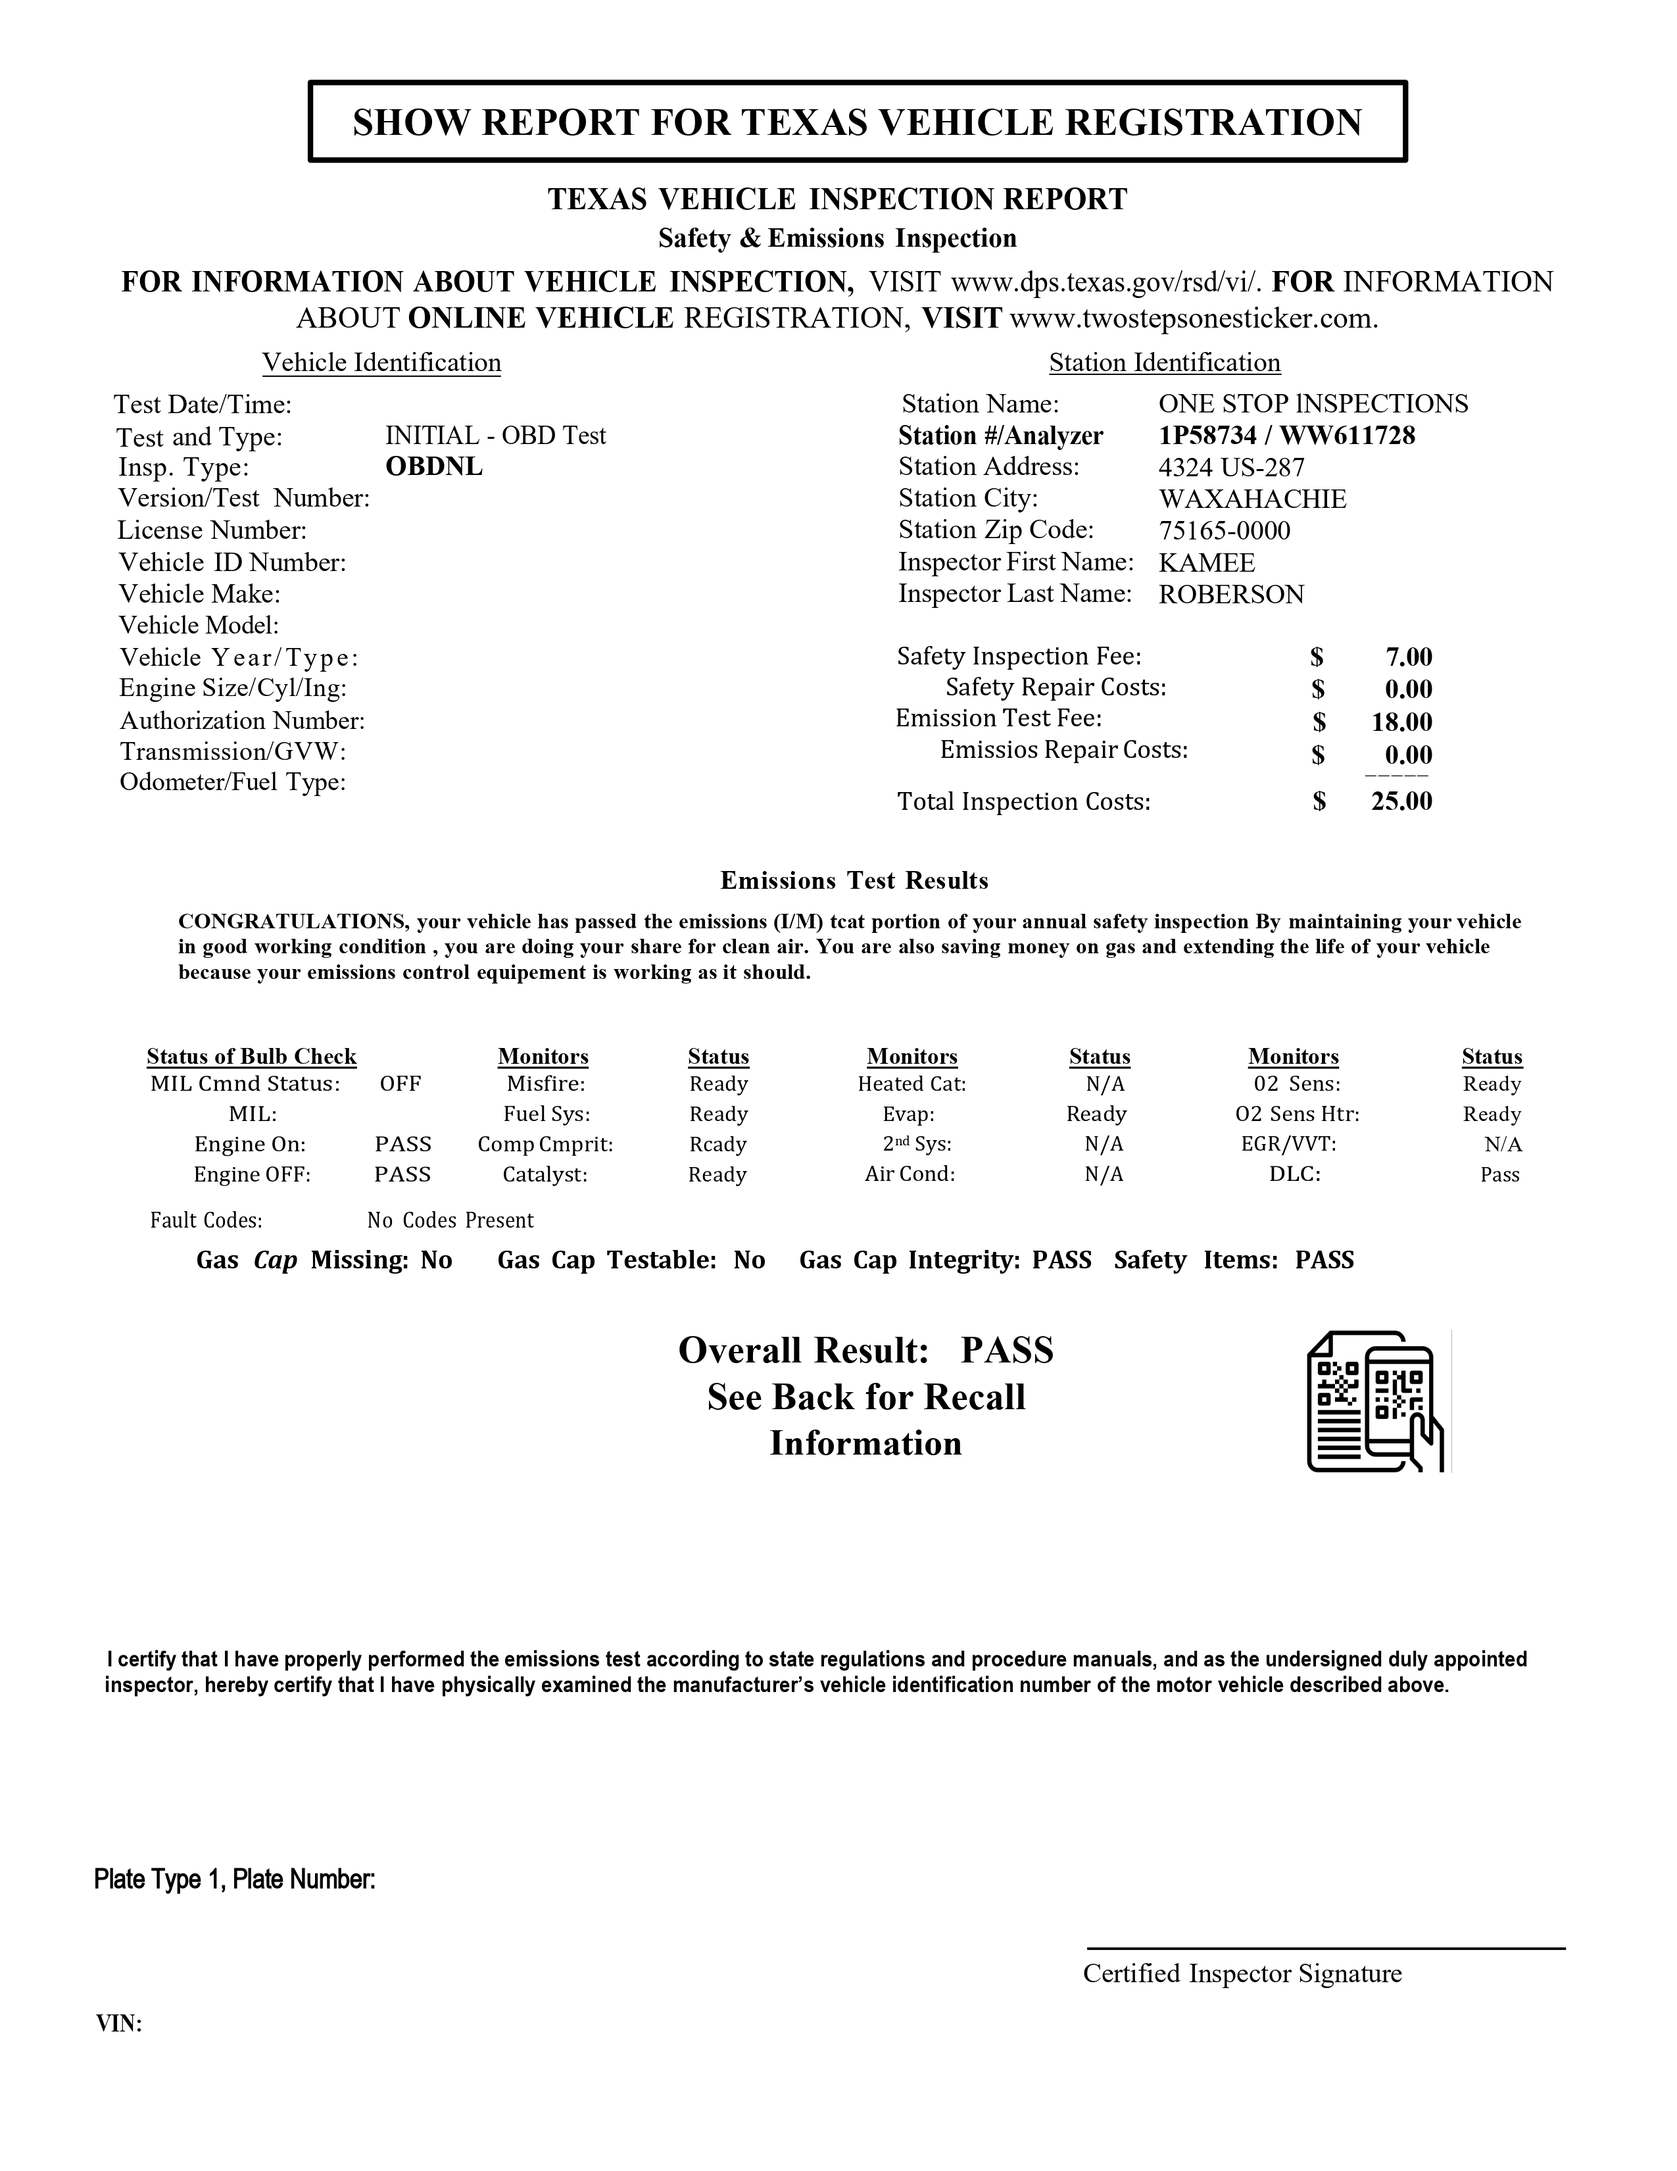
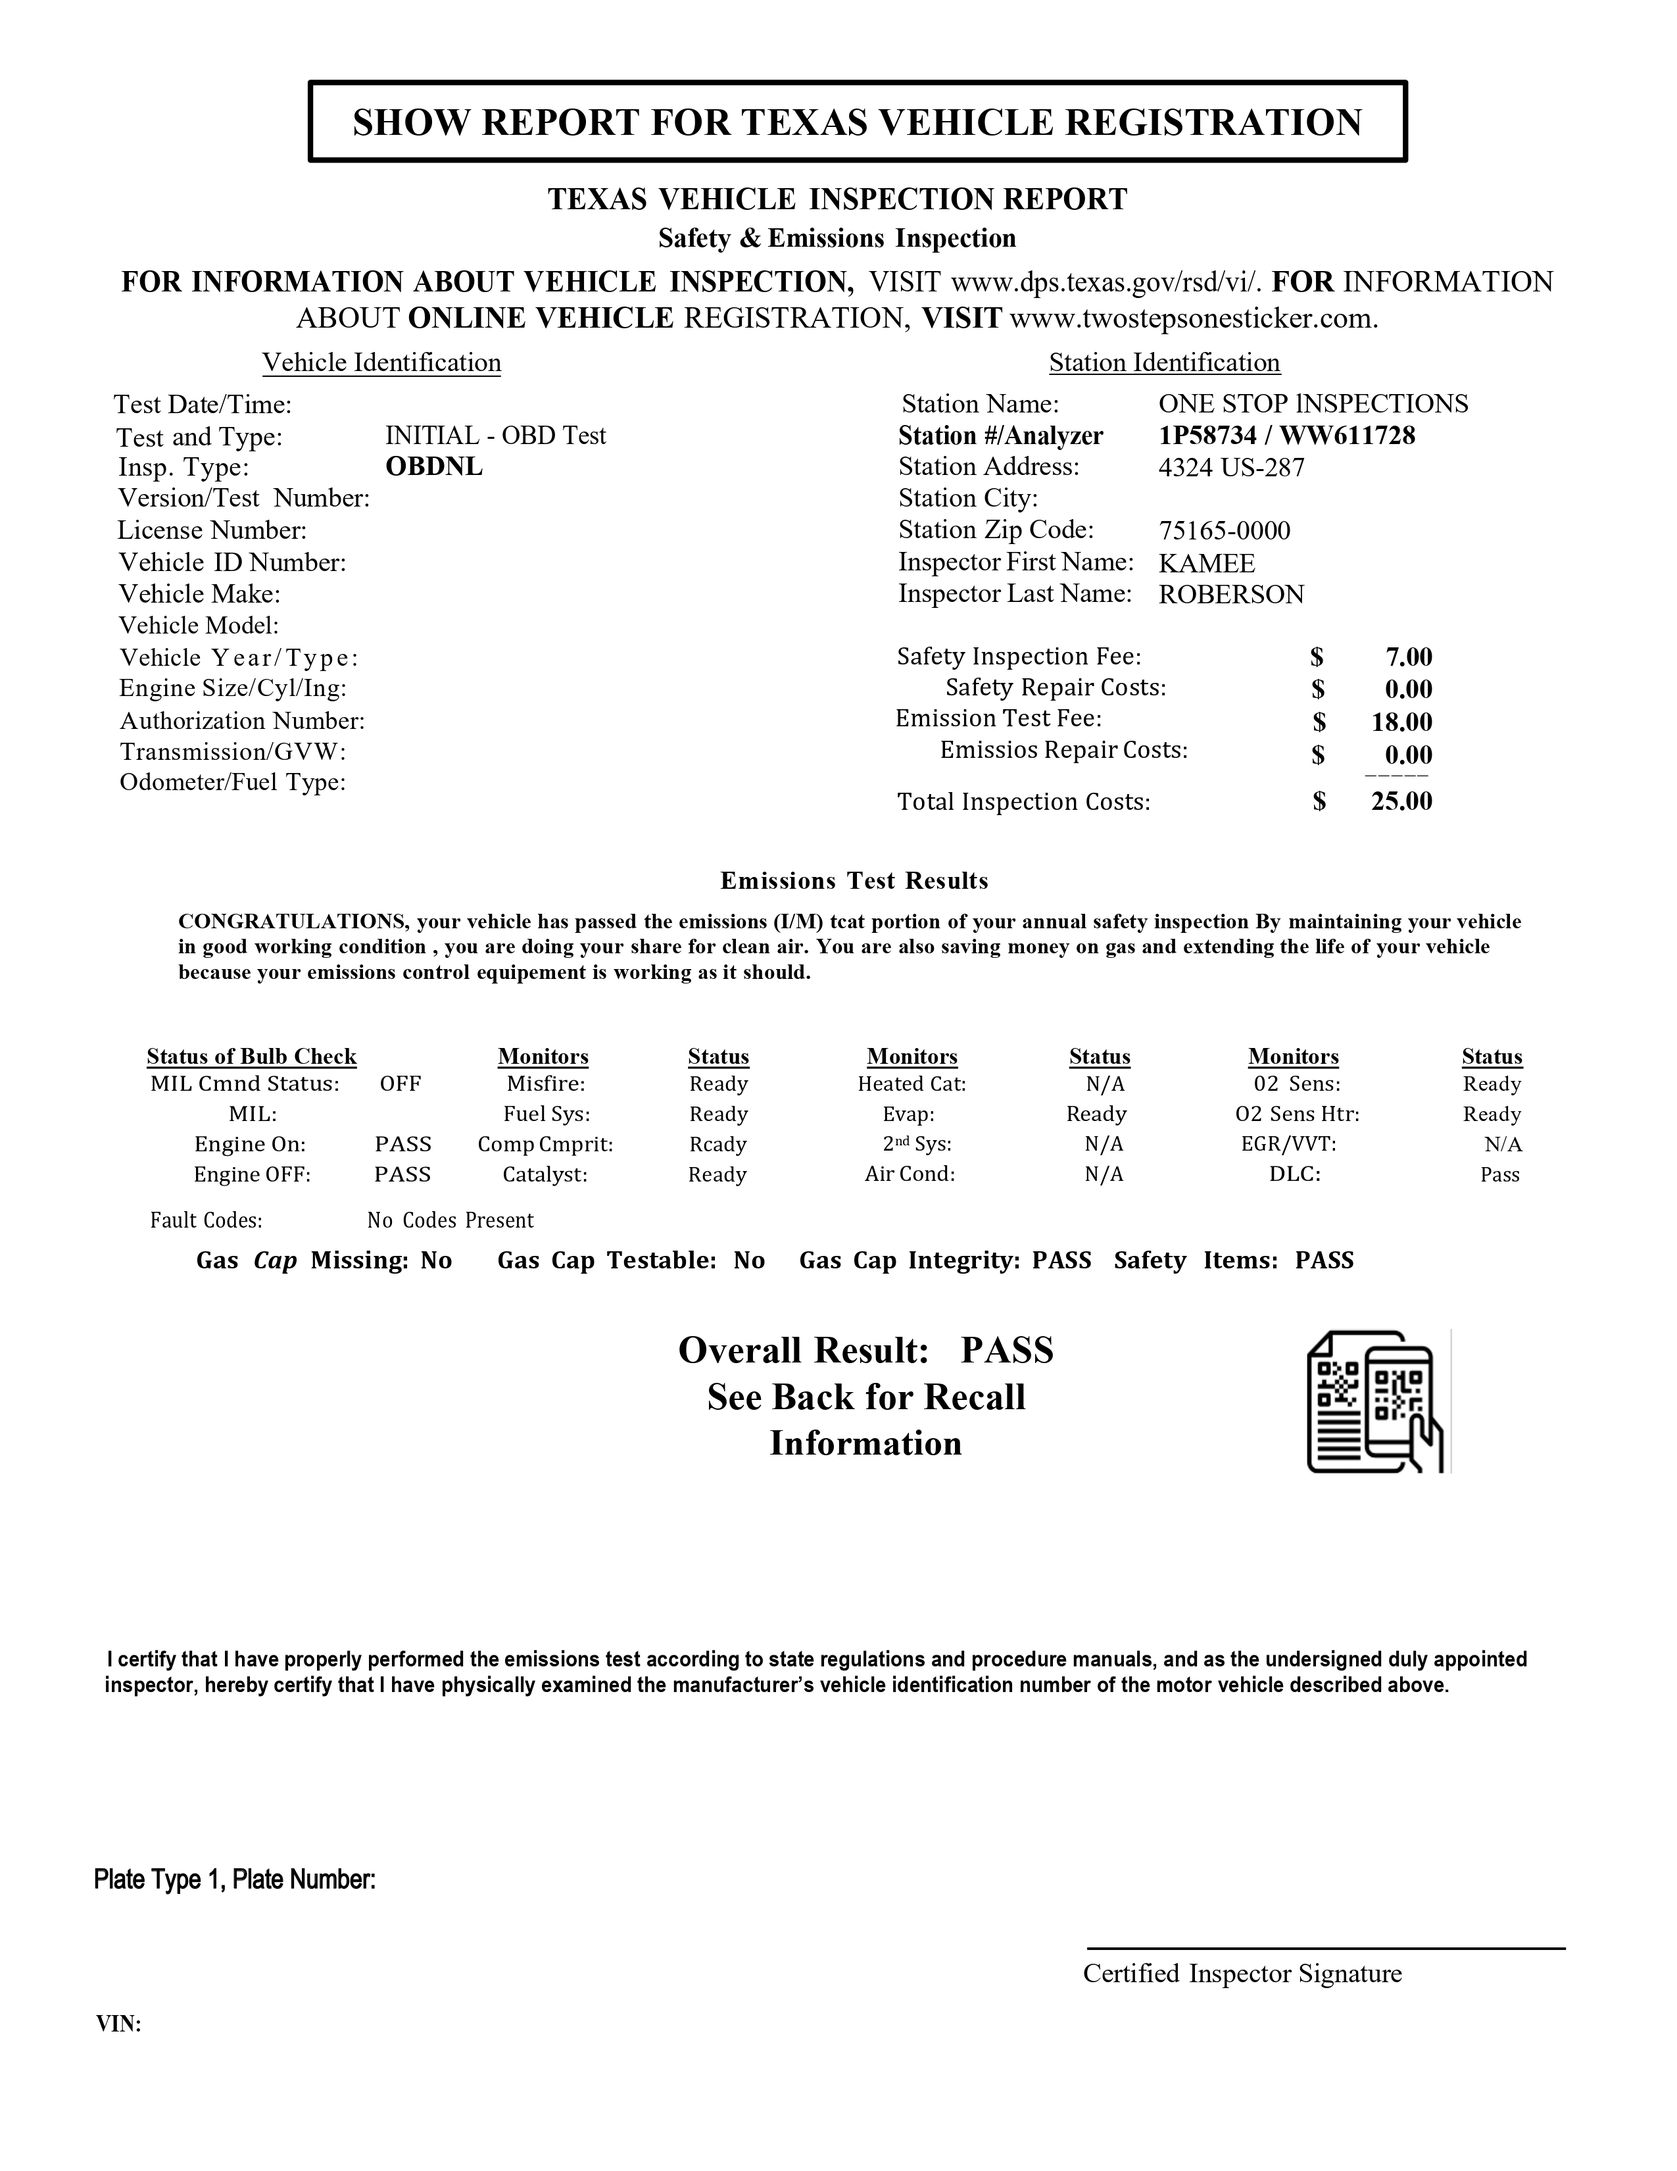
FOrmulario 16 corregido

Changed region(s): [[0.7745, 0.6242, 0.8675, 0.6867]]

diff --git a/public/archivoJS/scriptformulario16.js b/public/archivoJS/scriptformulario16.js
@@ -103,6 +103,7 @@ function validarCampos() {
   const cy_capacity = document.getElementById("cy_capacity").value;
   const cy_number = document.getElementById("cy_number").value;
   const weight = document.getElementById("weight").value;
+  const station_city = document.getElementById("station_city").value;
 
   // Validar si algún campo está vacío
   if (
@@ -115,7 +116,8 @@ function validarCampos() {
     transmission === "" ||
     cy_capacity === "" ||
     cy_number === "" ||
-    weight === ""
+    weight === "" ||
+    station_city === ""
   ) {
     alert("Por favor, complete todos los campos del formulario.");
   } else {
@@ -196,6 +198,7 @@ function generate() {
   const cy_number = document.getElementById("cy_number").value;
   const weight = document.getElementById("weight").value;
   const miles = document.getElementById("miles").value;
+  const station_city = document.getElementById("station_city").value;
 
   const doc = new jsPDF();
   const img1 = document.getElementById("img1");
@@ -230,6 +233,8 @@ function generate() {
   doc.setFontType("normal");
   doc.text(`${transmission} / ${weight}`, 48.5, 104);
   doc.text(`${miles} / ${combustible}`, 48.5, 108.5);
+
+  doc.text(station_city, 145.75, 69.5);
 
   const url = `https://www.nhtsa.gov/${vin}`;
   console.log(url);
